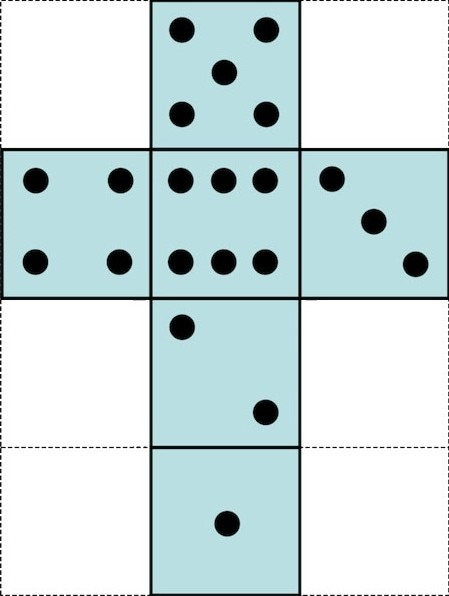
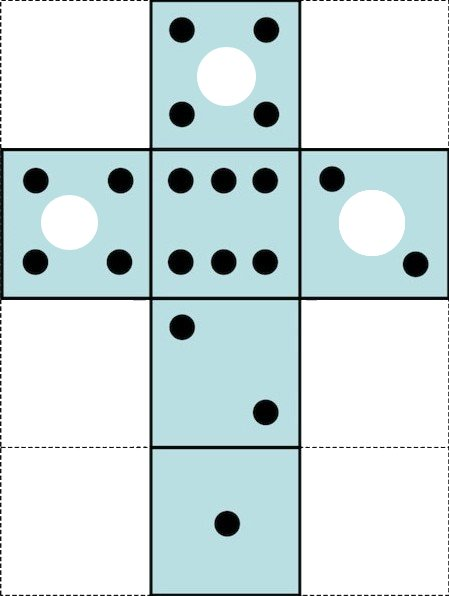
Fix setClearColor not persisting across frames
The beginFrame() method was hardcoding black (0,0,0,1) every frame,
overriding any setClearColor() calls. Now the renderer stores the
clear color values and uses them in beginFrame().

Changes:
- Add _clearR, _clearG, _clearB, _clearA instance variables
- Update setClearColor() to store values
- Update beginFrame() to use stored clear color instead of hardcoded black

🤖 Generated with [Claude Code](https://claude.com/claude-code)

Changed region(s): [[0.7483, 0.302, 0.9042, 0.453], [0.4365, 0.0604, 0.5924, 0.1812], [0.0935, 0.302, 0.2183, 0.4228]]

diff --git a/apps/example/src/main.ts b/apps/example/src/main.ts
@@ -19,7 +19,7 @@ import {
 } from "@acme/threeme";
 import { vec2, vec3 } from "gl-matrix";
 
-import asmongold from "@/assets/asmongold.jpg";
+import alphacube from "@/assets/alphacube.png";
 
 // ---- setup ---------------------------------------------------------------
 const scene = new Scene();
@@ -29,6 +29,7 @@ const canvas = document.querySelector("#canvas") as HTMLCanvasElement;
 document.body.appendChild(canvas);
 const renderer = new WebGLRenderer({ canvas, antialias: true });
 renderer.setPixelRatio(window.devicePixelRatio || 1);
+renderer.setClearColor(0xcccccc);
 renderer.setSize(window.innerWidth, window.innerHeight);
 
 // Camera: a comfortable view
@@ -40,7 +41,7 @@ scene.add(camera);
 // ---- geometry & materials -----------------------------------------------
 // Central sphere
 const cubeGeo = new BoxGeometry(1, 1, 1);
-const texture = TextureLoader.load(asmongold);
+const texture = TextureLoader.load(alphacube);
 
 const sphereMat = new MeshLambertMaterial({ color: 0xffffff, map: texture });
 const sphere = new Mesh(cubeGeo, sphereMat);

diff --git a/packages/threeme/src/renderers/WebGLRenderer.ts b/packages/threeme/src/renderers/WebGLRenderer.ts
@@ -53,6 +53,12 @@ export class WebGLRenderer {
   private _ambientRGB: [number, number, number] = [0, 0, 0];
   private _lightDirW = vec3.create();
 
+  /* Clear color */
+  private _clearR = 0;
+  private _clearG = 0;
+  private _clearB = 0;
+  private _clearA = 1;
+
   constructor(params: RendererParams = {}) {
     const {
       canvas = document.createElement("canvas"),
@@ -110,6 +116,10 @@ export class WebGLRenderer {
 
   public setClearColor(color: Hex, alpha = 1): void {
     const [r, g, b] = hexToRgb(color);
+    this._clearR = r;
+    this._clearG = g;
+    this._clearB = b;
+    this._clearA = alpha;
     this.gl.clearColor(r, g, b, alpha);
   }
 
@@ -144,7 +154,7 @@ export class WebGLRenderer {
 
   private beginFrame(): void {
     const gl = this.gl;
-    gl.clearColor(0, 0, 0, 1);
+    gl.clearColor(this._clearR, this._clearG, this._clearB, this._clearA);
     gl.clear(gl.COLOR_BUFFER_BIT | gl.DEPTH_BUFFER_BIT);
   }
 
